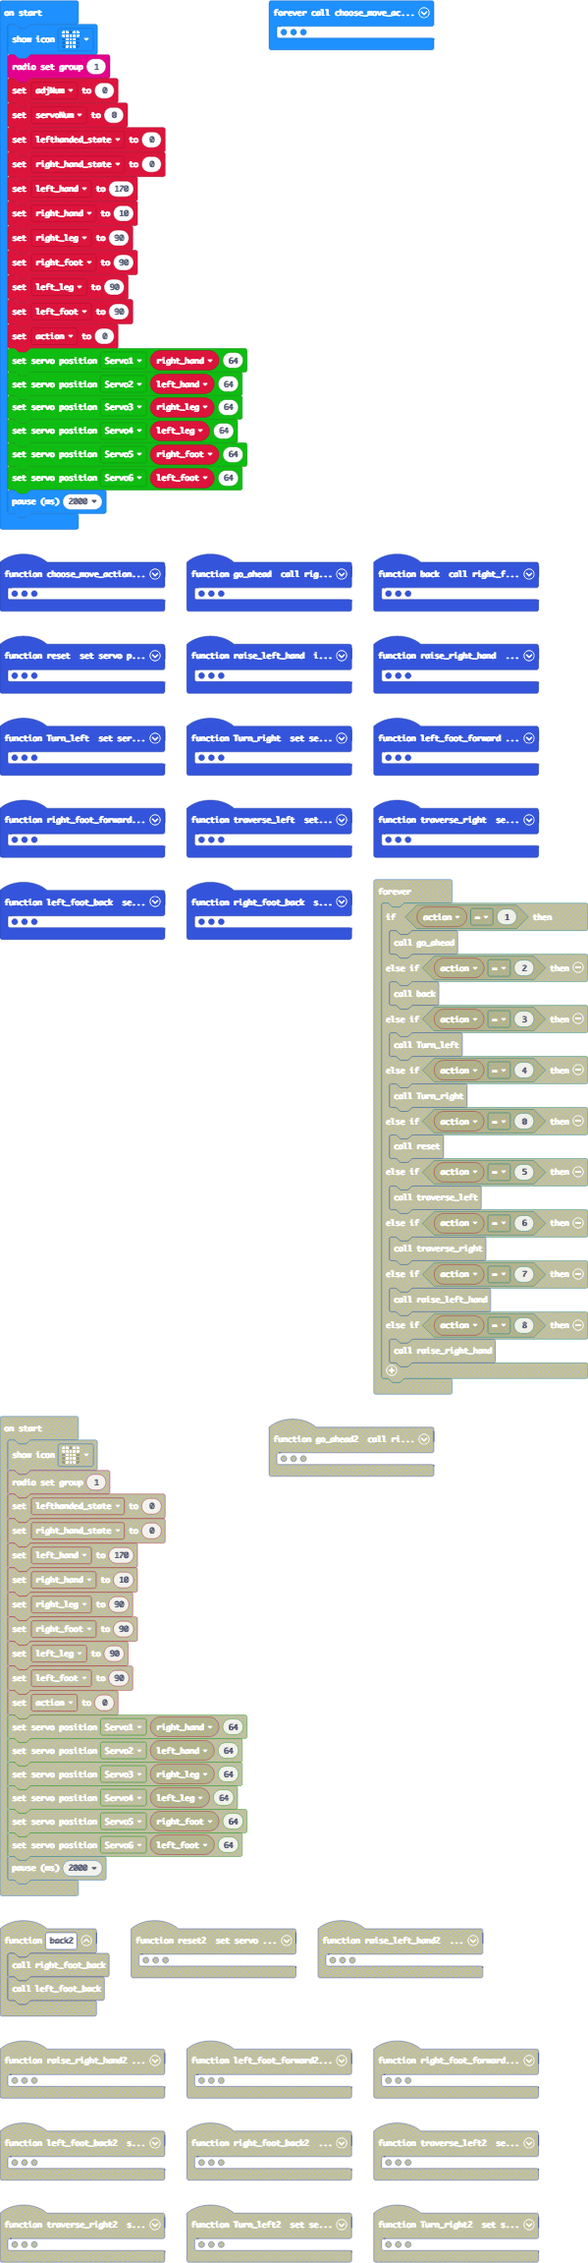
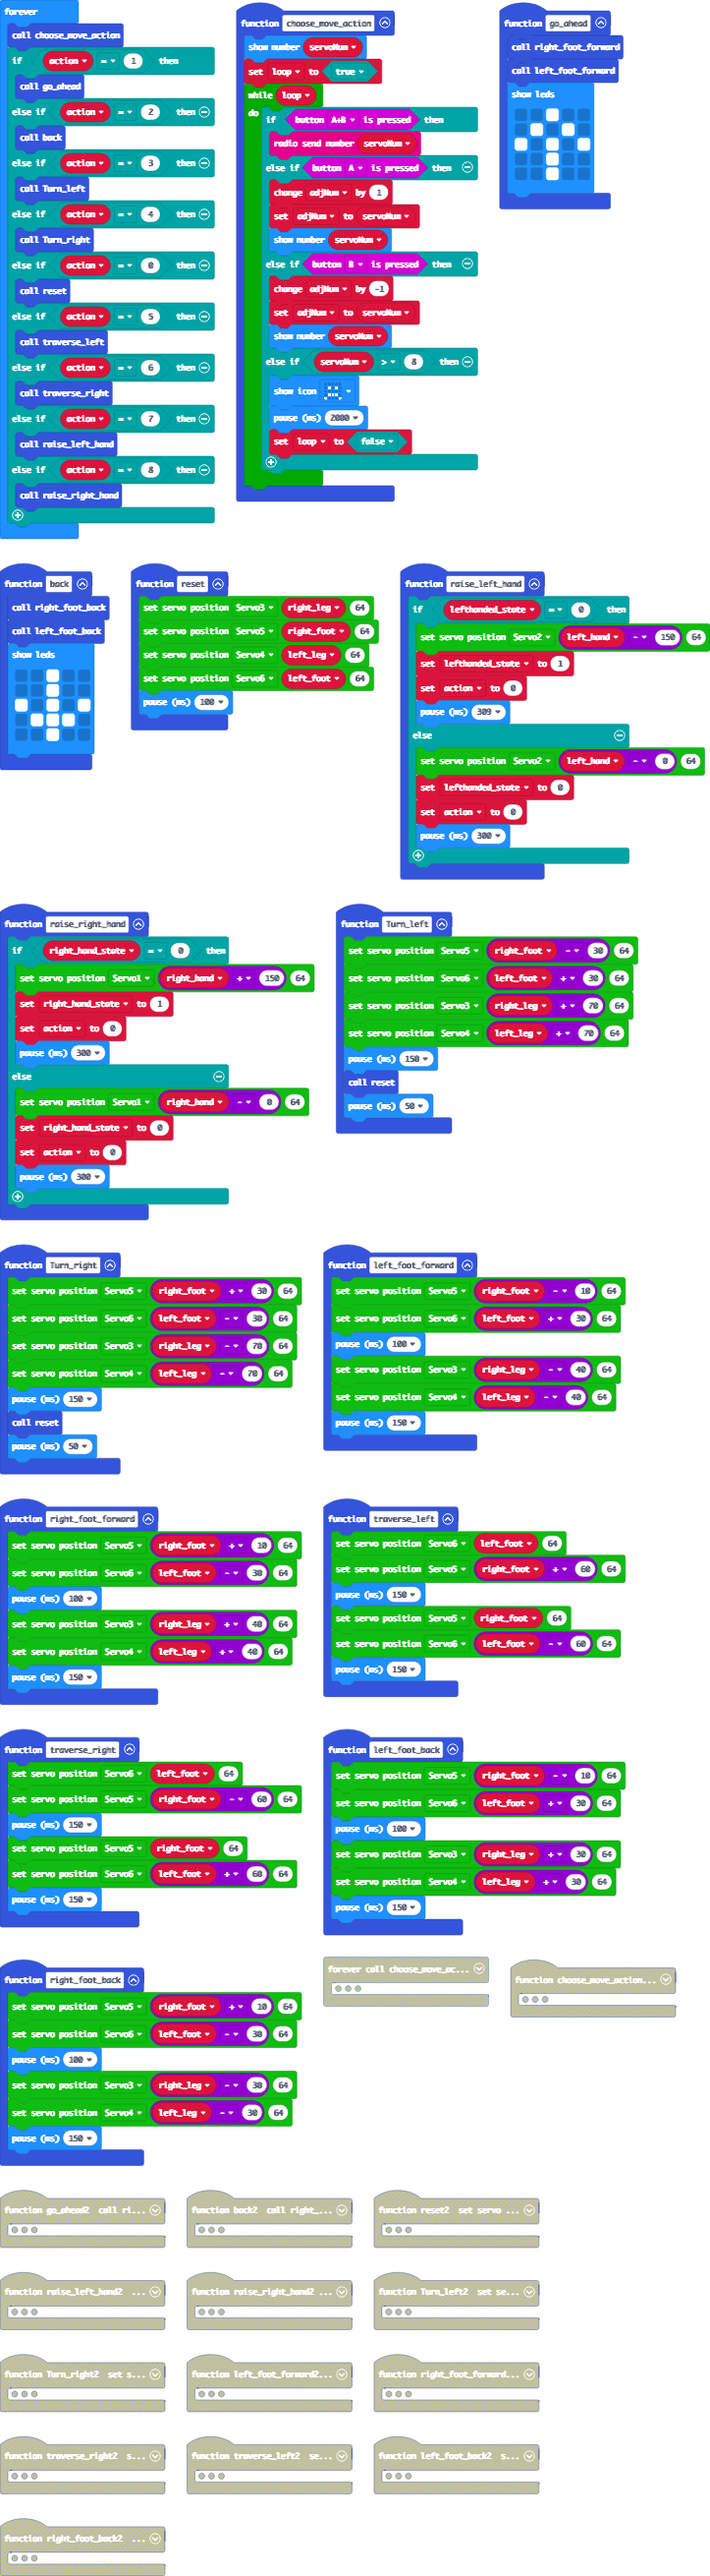
Update main.blocks, main.py

diff --git a/main.py b/main.py
@@ -1,49 +1,91 @@
-def Turn_left():
-    PCA9685.set_servo_position(PCA9685.ServoNum.SERVO3, right_foot - 30, 64)
-    PCA9685.set_servo_position(PCA9685.ServoNum.SERVO14, left_foot + 30, 64)
-    PCA9685.set_servo_position(PCA9685.ServoNum.SERVO2, right_leg + 70, 64)
-    PCA9685.set_servo_position(PCA9685.ServoNum.SERVO15, left_leg + 70, 64)
-    basic.pause(150)
-    reset()
-    basic.pause(50)
+def raise_left_hand():
+    global lefthanded_state, action
+    if lefthanded_state == 0:
+        PCA9685.set_servo_position(PCA9685.ServoNum.SERVO2, left_hand - 150, 64)
+        lefthanded_state = 1
+        action = 0
+        basic.pause(309)
+    else:
+        PCA9685.set_servo_position(PCA9685.ServoNum.SERVO2, left_hand - 0, 64)
+        lefthanded_state = 0
+        action = 0
+        basic.pause(300)
 
 def on_received_number(receivedNumber):
     global action
     action = receivedNumber
 radio.on_received_number(on_received_number)
 
+def right_foot_back():
+    PCA9685.set_servo_position(PCA9685.ServoNum.SERVO5, right_foot + 10, 64)
+    PCA9685.set_servo_position(PCA9685.ServoNum.SERVO6, left_foot - 30, 64)
+    basic.pause(100)
+    PCA9685.set_servo_position(PCA9685.ServoNum.SERVO3, right_leg - 30, 64)
+    PCA9685.set_servo_position(PCA9685.ServoNum.SERVO4, left_leg - 30, 64)
+    basic.pause(150)
 def back():
     right_foot_back()
     left_foot_back()
-def Turn_right():
-    PCA9685.set_servo_position(PCA9685.ServoNum.SERVO3, right_foot + 30, 64)
-    PCA9685.set_servo_position(PCA9685.ServoNum.SERVO14, left_foot - 30, 64)
-    PCA9685.set_servo_position(PCA9685.ServoNum.SERVO2, right_leg - 70, 64)
-    PCA9685.set_servo_position(PCA9685.ServoNum.SERVO15, left_leg - 70, 64)
+    basic.show_leds("""
+        . . # . .
+                . . # . .
+                # . # . #
+                . # # # .
+                . . # . .
+    """)
+def right_foot_forward():
+    PCA9685.set_servo_position(PCA9685.ServoNum.SERVO5, right_foot + 10, 64)
+    PCA9685.set_servo_position(PCA9685.ServoNum.SERVO6, left_foot - 30, 64)
+    basic.pause(100)
+    PCA9685.set_servo_position(PCA9685.ServoNum.SERVO3, right_leg + 40, 64)
+    PCA9685.set_servo_position(PCA9685.ServoNum.SERVO4, left_leg + 40, 64)
     basic.pause(150)
-    reset()
-    basic.pause(50)
 def go_ahead():
     right_foot_forward()
     left_foot_forward()
-def raise_left_hand():
-    global lefthanded_state, action
-    if lefthanded_state == 0:
-        PCA9685.set_servo_position(PCA9685.ServoNum.SERVO16, left_hand - 150, 64)
-        lefthanded_state = 1
-        action = 0
-        basic.pause(309)
-    else:
-        PCA9685.set_servo_position(PCA9685.ServoNum.SERVO16, left_hand - 0, 64)
-        lefthanded_state = 0
-        action = 0
-        basic.pause(300)
-def right_foot_back():
-    PCA9685.set_servo_position(PCA9685.ServoNum.SERVO3, right_foot + 10, 64)
-    PCA9685.set_servo_position(PCA9685.ServoNum.SERVO14, left_foot - 30, 64)
+    basic.show_leds("""
+        . . # . .
+                . # . # .
+                # . # . #
+                . . # . .
+                . . # . .
+    """)
+def left_foot_back():
+    PCA9685.set_servo_position(PCA9685.ServoNum.SERVO5, right_foot - 10, 64)
+    PCA9685.set_servo_position(PCA9685.ServoNum.SERVO6, left_foot + 30, 64)
     basic.pause(100)
-    PCA9685.set_servo_position(PCA9685.ServoNum.SERVO2, right_leg - 30, 64)
-    PCA9685.set_servo_position(PCA9685.ServoNum.SERVO15, left_leg - 30, 64)
+    PCA9685.set_servo_position(PCA9685.ServoNum.SERVO3, right_leg + 30, 64)
+    PCA9685.set_servo_position(PCA9685.ServoNum.SERVO4, left_leg + 30, 64)
+    basic.pause(150)
+def Turn_right():
+    PCA9685.set_servo_position(PCA9685.ServoNum.SERVO5, right_foot + 30, 64)
+    PCA9685.set_servo_position(PCA9685.ServoNum.SERVO6, left_foot - 30, 64)
+    PCA9685.set_servo_position(PCA9685.ServoNum.SERVO3, right_leg - 70, 64)
+    PCA9685.set_servo_position(PCA9685.ServoNum.SERVO4, left_leg - 70, 64)
+    basic.pause(150)
+    reset()
+    basic.pause(50)
+def Turn_left():
+    PCA9685.set_servo_position(PCA9685.ServoNum.SERVO5, right_foot - 30, 64)
+    PCA9685.set_servo_position(PCA9685.ServoNum.SERVO6, left_foot + 30, 64)
+    PCA9685.set_servo_position(PCA9685.ServoNum.SERVO3, right_leg + 70, 64)
+    PCA9685.set_servo_position(PCA9685.ServoNum.SERVO4, left_leg + 70, 64)
+    basic.pause(150)
+    reset()
+    basic.pause(50)
+def traverse_right():
+    PCA9685.set_servo_position(PCA9685.ServoNum.SERVO6, left_foot, 64)
+    PCA9685.set_servo_position(PCA9685.ServoNum.SERVO5, right_foot - 60, 64)
+    basic.pause(150)
+    PCA9685.set_servo_position(PCA9685.ServoNum.SERVO5, right_foot, 64)
+    PCA9685.set_servo_position(PCA9685.ServoNum.SERVO6, left_foot + 60, 64)
+    basic.pause(150)
+def traverse_left():
+    PCA9685.set_servo_position(PCA9685.ServoNum.SERVO6, left_foot, 64)
+    PCA9685.set_servo_position(PCA9685.ServoNum.SERVO5, right_foot + 60, 64)
+    basic.pause(150)
+    PCA9685.set_servo_position(PCA9685.ServoNum.SERVO5, right_foot, 64)
+    PCA9685.set_servo_position(PCA9685.ServoNum.SERVO6, left_foot - 60, 64)
     basic.pause(150)
 def raise_right_hand():
     global right_hand_state, action
@@ -57,47 +99,39 @@ def raise_right_hand():
         right_hand_state = 0
         action = 0
         basic.pause(300)
-def left_foot_back():
-    PCA9685.set_servo_position(PCA9685.ServoNum.SERVO3, right_foot - 10, 64)
-    PCA9685.set_servo_position(PCA9685.ServoNum.SERVO14, left_foot + 30, 64)
-    basic.pause(100)
-    PCA9685.set_servo_position(PCA9685.ServoNum.SERVO2, right_leg + 30, 64)
-    PCA9685.set_servo_position(PCA9685.ServoNum.SERVO15, left_leg + 30, 64)
-    basic.pause(150)
-def traverse_right():
-    PCA9685.set_servo_position(PCA9685.ServoNum.SERVO14, left_foot, 64)
-    PCA9685.set_servo_position(PCA9685.ServoNum.SERVO3, right_foot - 60, 64)
-    basic.pause(150)
-    PCA9685.set_servo_position(PCA9685.ServoNum.SERVO3, right_foot, 64)
-    PCA9685.set_servo_position(PCA9685.ServoNum.SERVO14, left_foot + 60, 64)
-    basic.pause(150)
-def right_foot_forward():
-    PCA9685.set_servo_position(PCA9685.ServoNum.SERVO3, right_foot + 10, 64)
-    PCA9685.set_servo_position(PCA9685.ServoNum.SERVO14, left_foot - 30, 64)
-    basic.pause(100)
-    PCA9685.set_servo_position(PCA9685.ServoNum.SERVO2, right_leg + 40, 64)
-    PCA9685.set_servo_position(PCA9685.ServoNum.SERVO15, left_leg + 40, 64)
-    basic.pause(150)
 def left_foot_forward():
-    PCA9685.set_servo_position(PCA9685.ServoNum.SERVO3, right_foot - 10, 64)
-    PCA9685.set_servo_position(PCA9685.ServoNum.SERVO14, left_foot + 30, 64)
+    PCA9685.set_servo_position(PCA9685.ServoNum.SERVO5, right_foot - 10, 64)
+    PCA9685.set_servo_position(PCA9685.ServoNum.SERVO6, left_foot + 30, 64)
     basic.pause(100)
-    PCA9685.set_servo_position(PCA9685.ServoNum.SERVO2, right_leg - 40, 64)
-    PCA9685.set_servo_position(PCA9685.ServoNum.SERVO15, left_leg - 40, 64)
+    PCA9685.set_servo_position(PCA9685.ServoNum.SERVO3, right_leg - 40, 64)
+    PCA9685.set_servo_position(PCA9685.ServoNum.SERVO4, left_leg - 40, 64)
     basic.pause(150)
+def choose_move_action():
+    global loop, adjNum
+    basic.show_number(servoNum)
+    loop = True
+    while loop:
+        if input.button_is_pressed(Button.AB):
+            radio.send_number(servoNum)
+        elif input.button_is_pressed(Button.A):
+            adjNum += 1
+            adjNum = servoNum
+            basic.show_number(servoNum)
+        elif input.button_is_pressed(Button.B):
+            adjNum += -1
+            adjNum = servoNum
+            basic.show_number(servoNum)
+        elif servoNum > 8:
+            basic.show_icon(IconNames.SAD)
+            basic.pause(2000)
+            loop = False
 def reset():
-    PCA9685.set_servo_position(PCA9685.ServoNum.SERVO2, right_leg, 64)
-    PCA9685.set_servo_position(PCA9685.ServoNum.SERVO3, right_foot, 64)
-    PCA9685.set_servo_position(PCA9685.ServoNum.SERVO15, left_leg, 64)
-    PCA9685.set_servo_position(PCA9685.ServoNum.SERVO14, left_foot, 64)
+    PCA9685.set_servo_position(PCA9685.ServoNum.SERVO3, right_leg, 64)
+    PCA9685.set_servo_position(PCA9685.ServoNum.SERVO5, right_foot, 64)
+    PCA9685.set_servo_position(PCA9685.ServoNum.SERVO4, left_leg, 64)
+    PCA9685.set_servo_position(PCA9685.ServoNum.SERVO6, left_foot, 64)
     basic.pause(100)
-def traverse_left():
-    PCA9685.set_servo_position(PCA9685.ServoNum.SERVO14, left_foot, 64)
-    PCA9685.set_servo_position(PCA9685.ServoNum.SERVO3, right_foot + 60, 64)
-    basic.pause(150)
-    PCA9685.set_servo_position(PCA9685.ServoNum.SERVO3, right_foot, 64)
-    PCA9685.set_servo_position(PCA9685.ServoNum.SERVO14, left_foot - 60, 64)
-    basic.pause(150)
+loop = False
 action = 0
 left_foot = 0
 left_leg = 0
@@ -107,8 +141,12 @@ right_hand = 0
 left_hand = 0
 right_hand_state = 0
 lefthanded_state = 0
-basic.show_icon(IconNames.HEART)
+servoNum = 0
+adjNum = 0
+basic.show_icon(IconNames.TSHIRT)
 radio.set_group(1)
+adjNum = 0
+servoNum = 0
 lefthanded_state = 0
 right_hand_state = 0
 left_hand = 170
@@ -119,14 +157,15 @@ left_leg = 90
 left_foot = 90
 action = 0
 PCA9685.set_servo_position(PCA9685.ServoNum.SERVO1, right_hand, 64)
-PCA9685.set_servo_position(PCA9685.ServoNum.SERVO2, right_leg, 64)
-PCA9685.set_servo_position(PCA9685.ServoNum.SERVO3, right_foot, 64)
-PCA9685.set_servo_position(PCA9685.ServoNum.SERVO16, left_hand, 64)
-PCA9685.set_servo_position(PCA9685.ServoNum.SERVO15, left_leg, 64)
-PCA9685.set_servo_position(PCA9685.ServoNum.SERVO14, left_foot, 64)
+PCA9685.set_servo_position(PCA9685.ServoNum.SERVO2, left_hand, 64)
+PCA9685.set_servo_position(PCA9685.ServoNum.SERVO3, right_leg, 64)
+PCA9685.set_servo_position(PCA9685.ServoNum.SERVO4, left_leg, 64)
+PCA9685.set_servo_position(PCA9685.ServoNum.SERVO5, right_foot, 64)
+PCA9685.set_servo_position(PCA9685.ServoNum.SERVO6, left_foot, 64)
 basic.pause(2000)
 
 def on_forever():
+    choose_move_action()
     if action == 1:
         go_ahead()
     elif action == 2:
